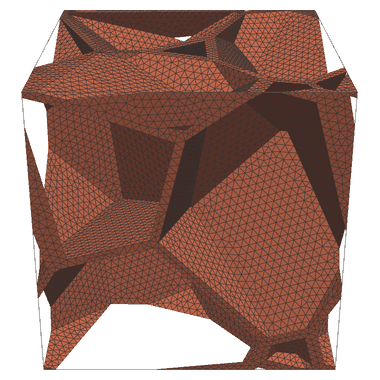
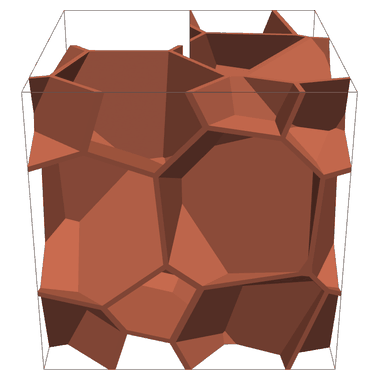
README: clearer foam images

diff --git a/README.md b/README.md
@@ -25,8 +25,8 @@ can be read directly with GridapGmsh.
 <td align="center"><img src="docs/imgs/gallery/mre_chains.png" width="180"><br>particle chains (MRE)</td>
 <td align="center"><img src="docs/imgs/gallery/octet.png" width="180"><br>octet lattice</td>
 <td align="center"><img src="docs/imgs/gallery/polycrystal.png" width="180"><br>Voronoi polycrystal</td>
-<td align="center"><img src="docs/imgs/gallery/closed_foam.png" width="180"><br>closed-cell foam</td>
-<td align="center"><img src="docs/imgs/gallery/kelvin.png" width="180"><br>Kelvin open foam</td>
+<td align="center"><img src="docs/imgs/gallery/closed_foam.png" width="180"><br>closed-cell foam (cut open)</td>
+<td align="center"><img src="docs/imgs/gallery/kelvin.png" width="180"><br>Kelvin open foam (2×2×2)</td>
 </tr>
 <tr>
 <td align="center"><img src="docs/imgs/gallery/random.png" width="180"><br>random spheres</td>
@@ -45,7 +45,7 @@ particle_chains(cell; axis = 3, radius = 0.08, gap = 0.02, fraction = 0.12, rng 
 lattice(cell, :octet; density = 0.15)                                                  # strut lattice
 grain_phases(voronoi(cell; n = 20, lloyd = 2, rng = 1))                                # polycrystal
 t = voronoi(cell; n = 8, rng = 1); pores(t; wall = wall_thickness(t, 0.15))            # closed foam
-foam_struts(voronoi(cell; seeds = [(0, 0, 0), (0.5, 0.5, 0.5)]); radius = 0.04)        # Kelvin foam
+foam_struts(voronoi(cell; seeds = [(0, 0, 0), (0.5, 0.5, 0.5)]); radius = 0.035)       # Kelvin foam
 random_spheres(cell; radius = 0.1, fraction = 0.2, rng = 3)                            # random packing
 ```
 
